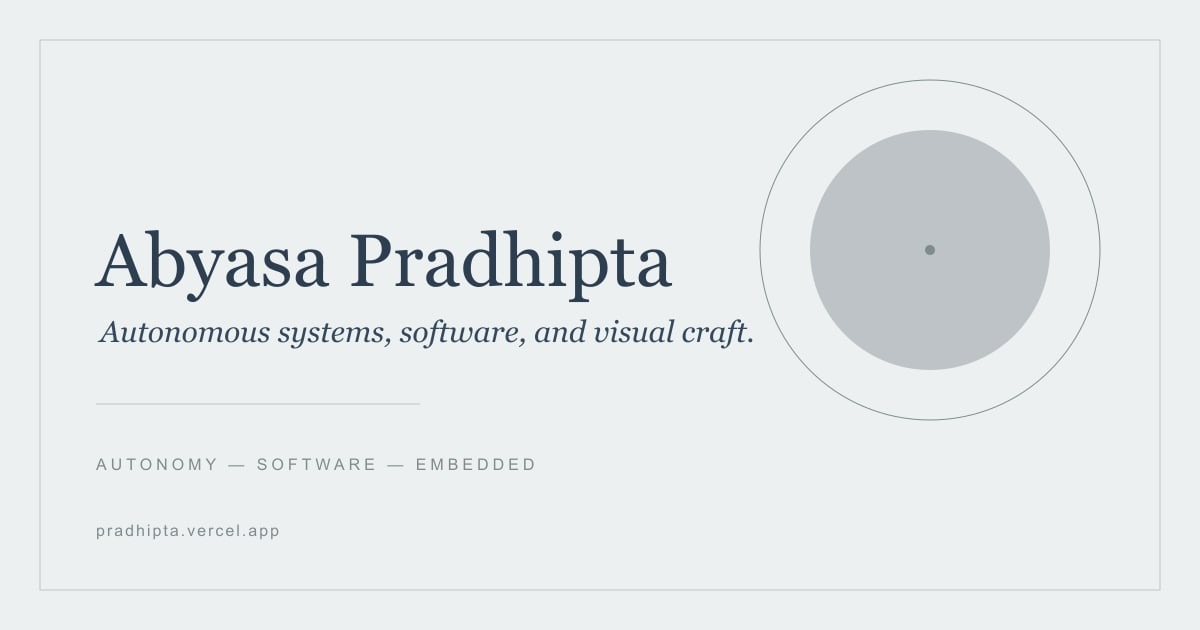
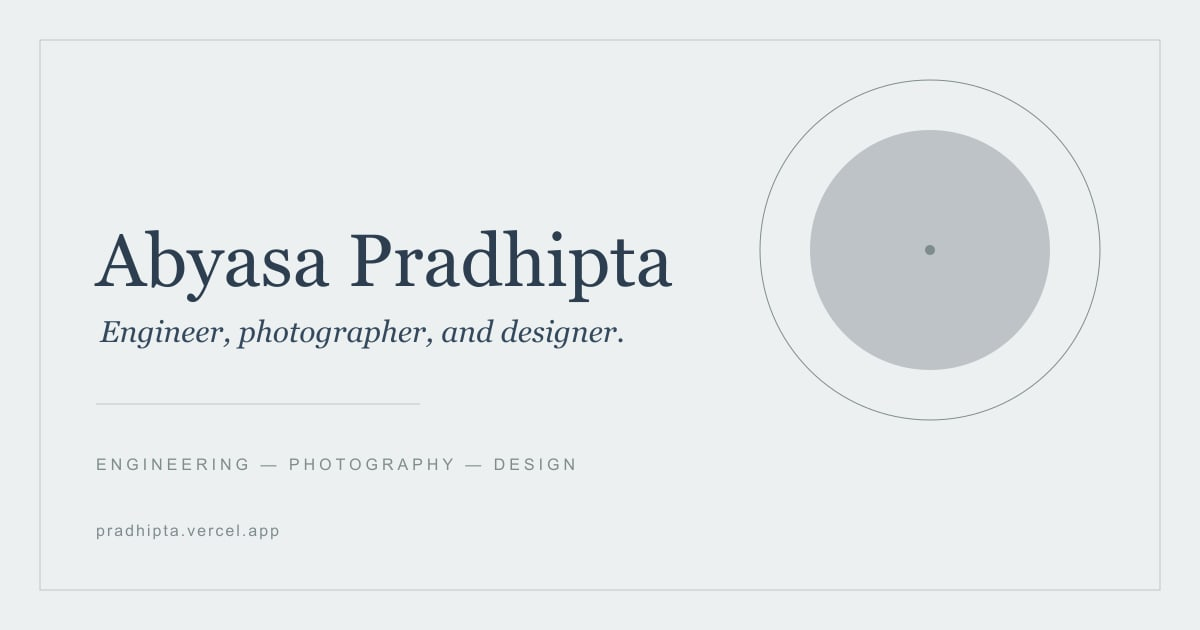
content: shift identity to a personal portfolio

Changed region(s): [[0.0617, 0.5127, 0.6475, 0.573], [0.0617, 0.7238, 0.4933, 0.754]]

diff --git a/src/data/site.ts b/src/data/site.ts
@@ -5,12 +5,12 @@
 export const site = {
   name: 'Abyasa Pradhipta',
   firstName: 'Abyasa',
-  role: 'Robotics engineer & software developer',
+  role: 'Engineer, photographer & designer',
   location: 'Yogyakarta, Indonesia',
-  availability: 'Open to engineering roles',
+  availability: 'Open to new work',
   email: 'dhiipt32@gmail.com',
   description:
-    'Portfolio of Abyasa Pradhipta — autonomous systems, computer vision, embedded software, and visual work.',
+    'Personal portfolio of Abyasa Pradhipta — engineering projects, photography, and design.',
   url: 'https://pradhipta.vercel.app',
   year: 2026,
   socials: [

diff --git a/README.md b/README.md
@@ -1,8 +1,9 @@
-# Portfolio — Astro
+# Personal portfolio — Astro
 
-Portfolio multi-halaman dengan arah visual *light editorial*: kertas hangat, tipografi
-serif, hairline border, dan banyak whitespace. Berisi proyek engineering, pengalaman,
-dan galeri karya seni. Konten dikelola lewat Markdown, output sepenuhnya statis.
+Personal portfolio multi-halaman dengan arah visual *light editorial*: kertas sejuk,
+tipografi serif, hairline border, dan banyak whitespace. Menggabungkan proyek
+engineering, pengalaman, dan galeri karya seni dalam satu situs. Konten dikelola
+lewat Markdown, output sepenuhnya statis.
 
 ## Stack
 
